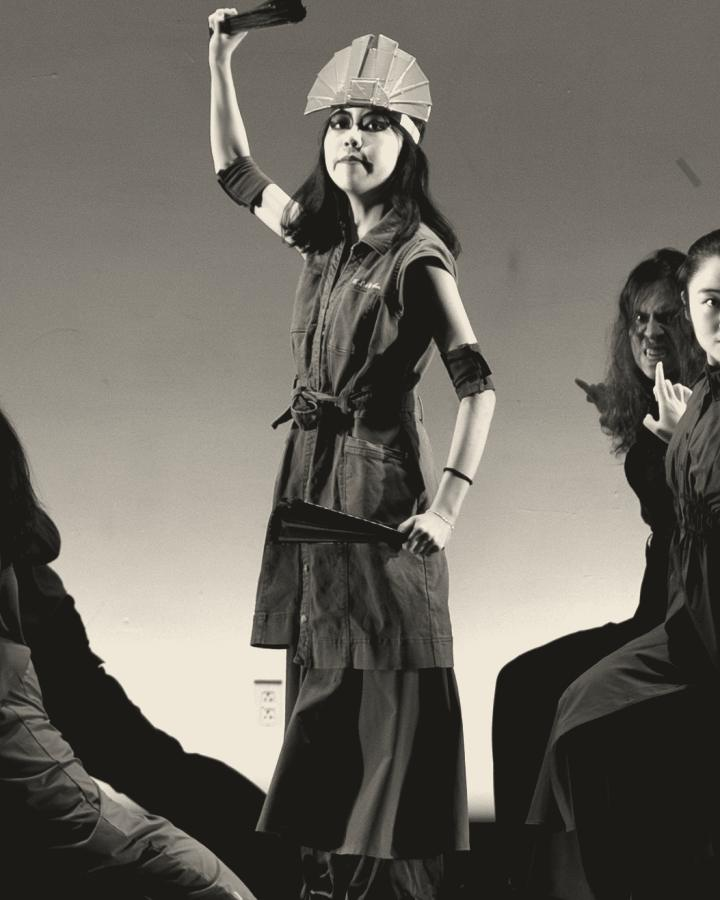
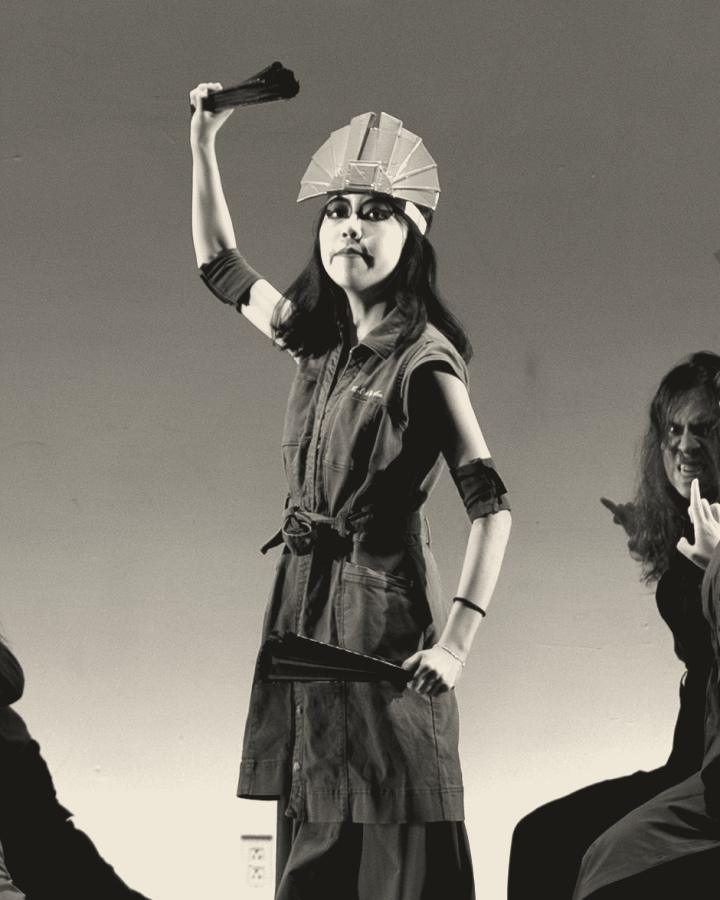
Giving Day: spotlight the performers, and frame the four as a set
Two changes to the tier cards.

A radial gradient now washes each photograph out towards paper away from an
ellipse centred on the performer. Three of the four were taken in a room with
other people in it — a line of members mid-form, a raised fist, a window full
of trees — and at card size the eye had to work out who the picture was of.
The wash is CSS over the photograph rather than a change to the file, so the
files stay honest photographs and the strength is one number.

The crops are re-framed so the four read as one set rather than four
snapshots. Each performer's face now lands about a quarter of the way down its
frame and takes 14-18% of the frame's height; before, the faces ran from 12.4%
to 16.9% and sat anywhere from 15% to 30% down. Tightening the $25 and the $50
to reach that also pushed a bystander off the right edge of each — the $25's
second face went from 8.6% of frame height to 2.0%.

The $10 needed something else. It was shot against a white wall, and the
duotone mapped that wall all the way up to the card's own paper colour, so
below the figure the card read as half-printed rather than as a photograph:
13.4% of the band between the subject and the bottom fade was within a hair of
paper, against 1.4% on the others. Its highlights are now held at 0.86 of
paper, which gives the wall its tone back and brings that figure to 0.4%. The
ceiling is per-file and recorded with the crop boxes.
[…]

diff --git a/giving-day.css b/giving-day.css
@@ -696,6 +696,33 @@
   object-fit: cover;
 }
 
+/* A spotlight on the performer. Three of these four pictures were taken in a
+   room with other people in it — a line of members mid-form, a fist in the
+   air, a window full of trees — and at card size the eye has to work out who
+   the picture is of. This washes the frame out towards paper from an ellipse
+   centred on the performer, so the background recedes instead of competing
+   and the edges of the photograph melt into the card rather than ending on a
+   straight line.
+
+   It is a gradient over the photograph, not a change to the file: the files
+   stay honest photographs, and the strength of this is one number to tune.
+   The ellipse is centred at 34% down because that is roughly where the
+   performers' heads sit now; move the crops and this has to move with them.
+   The colour is --paper-card as literal rgba, matching the fade below, which
+   does the same thing for the same reason. */
+.gd-tier__shot::before {
+  content: "";
+  position: absolute;
+  inset: 0;
+  z-index: 1;
+  pointer-events: none;
+  background: radial-gradient(ellipse 64% 54% at 50% 34%,
+              rgba(244, 238, 226, 0) 0%,
+              rgba(244, 238, 226, 0) 44%,
+              rgba(244, 238, 226, 0.42) 74%,
+              rgba(244, 238, 226, 0.82) 100%);
+}
+
 /* The bottom edge dissolves into the card instead of ending on a line, so
    there is no seam between the photograph and the paper under it. */
 .gd-tier__shot::after {
@@ -716,6 +743,13 @@
    photograph comes later in the markup. */
 .gd-tier--flagged.gd-tier--shot { padding-top: 0; }
 .gd-tier__flag { z-index: 2; }
+.gd-tier--flagged.gd-tier--shot .gd-tier__shot::before {
+  background: radial-gradient(ellipse 64% 54% at 50% 34%,
+              rgba(239, 231, 216, 0) 0%,
+              rgba(239, 231, 216, 0) 44%,
+              rgba(239, 231, 216, 0.42) 74%,
+              rgba(239, 231, 216, 0.82) 100%);
+}
 .gd-tier--flagged.gd-tier--shot .gd-tier__shot::after {
   background: linear-gradient(to bottom,
               rgba(239, 231, 216, 0) 0%,

diff --git a/giving-day.html b/giving-day.html
@@ -41,7 +41,7 @@
   <link rel="stylesheet" href="styles.css">
   <!-- This page's own styles. Kept out of styles.css so the campaign can be
        added and removed without touching the stylesheet every other page uses. -->
-  <link rel="stylesheet" href="giving-day.css?v=897309ae">
+  <link rel="stylesheet" href="giving-day.css?v=625a616b">
 </head>
 <body>
 

diff --git a/README.md b/README.md
@@ -833,8 +833,17 @@ Things that are easy to get wrong here:
   than the file, so `cover` crops top and bottom and takes the head off. No single
   `object-position` rescues it, because the crouching figures sit halfway down their frames
   while the others are near the top.
+- **Two gradients sit over every photograph, and neither is in the file.** A radial
+  spotlight washes the frame out towards paper away from an ellipse centred at 50% across and
+  34% down, and the bottom 30% fades into the card. The spotlight exists because three of the
+  four pictures were taken in a room with other people in it, and at card size the eye could
+  not tell who the picture was of; washing the background back solves that without retouching
+  a photograph of real people. Its ellipse is centred where the performers' heads sit — move
+  the crops and that number has to move with them. Both gradients are in `giving-day.css`
+  under `.gd-tier__shot`, and the flagged card repeats both in `--paper` rather than
+  `--paper-card`, because it sits on slightly different paper.
 - **The crop boxes are recorded, not improvised.** Each picture is a named region of a
-  full-resolution original — the smallest is 896px wide against a 720px card, so every one is a
+  full-resolution original — the smallest is 800px wide against a 720px card, so every one is a
   downscale — chosen by framing 4:5 around a detected face with headroom above it. Nothing is
   upscaled and nothing is cropped so tight that a head meets an edge. The originals themselves
   are gitignored for size, which is why the boxes are written down beside the files.
